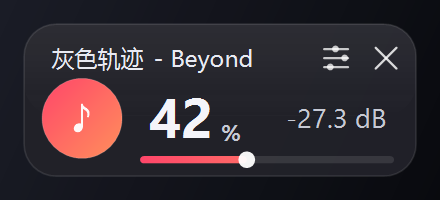
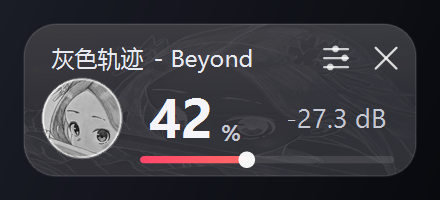
Artwork: circular portrait and a pencil line-art watermark
The note glyph is replaced by a circular crop of a hand-drawn portrait,
and a faint version of the same sketch is used as the card background, so
the card reads as a sketchbook page without hurting the text.

Both images are pre-processed (contrast-boosted round avatar, alpha line
art) and embedded in the exe as resources, so it stays a single file.
If the resources are missing the renderer falls back to the old note
circle. The watermark strength is a parameter (bgLines, 0-40 %, default
22 %) with its own row in the settings panel.

diff --git a/src/Renderer.cs b/src/Renderer.cs
@@ -1,6 +1,7 @@
 using System;
 using System.Drawing;
 using System.Drawing.Drawing2D;
+using System.Drawing.Imaging;
 using System.Drawing.Text;
 
 namespace NvHud
@@ -26,6 +27,31 @@ namespace NvHud
         public const float H_NORMAL = 50f;
         public const float W_HOVER = 196f;   // 与常态同宽：展开只增高，避免右侧出屏
         public const float H_HOVER = 76f;
+
+        // ---- 内置画作（头像 + 线稿水印），从 exe 资源加载 ----
+        private static Bitmap _avatar;
+        private static Bitmap _lines;
+        private static ImageAttributes _linesAttr;
+        private static float _linesAttrAlpha = -1f;
+        private static bool _artTried;
+
+        /// <summary>线稿水印浓度 0~1（可由参数面板调整）。</summary>
+        public static float LineAlpha = 0.22f;
+
+        private static void EnsureArt()
+        {
+            if (_artTried) return;
+            _artTried = true;
+            try
+            {
+                var asm = typeof(Renderer).Assembly;
+                using (var s = asm.GetManifestResourceStream("avatar.png"))
+                    if (s != null) _avatar = new Bitmap(s);
+                using (var s = asm.GetManifestResourceStream("lines.png"))
+                    if (s != null) _lines = new Bitmap(s);
+            }
+            catch { }
+        }
 
         public const string TitleFontName = "Microsoft YaHei UI";
         public const float TitleFontPx = 11.5f;
@@ -99,6 +125,7 @@ namespace NvHud
             g.PixelOffsetMode = PixelOffsetMode.HighQuality;
             g.TextRenderingHint = TextRenderingHint.AntiAliasGridFit;
             g.ScaleTransform(st.Scale, st.Scale);
+            EnsureArt();
 
             SizeF sz = LogicalSize(st.Hover);
             float w = sz.Width, h = sz.Height;
@@ -114,6 +141,29 @@ namespace NvHud
                 using (var fill = new SolidBrush(off ? C(24, 24, 28, 235) : ((st.ShowControls ? C(33, 33, 40, 246) : C(28, 28, 34, 244)))))
                     g.FillPath(fill, cp);
 
+                // 线稿水印（内置画作），浓度可调
+                if (_lines != null && LineAlpha > 0.01f)
+                {
+                    try
+                    {
+                        if (_linesAttr == null || Math.Abs(_linesAttrAlpha - LineAlpha) > 0.001f)
+                        {
+                            _linesAttrAlpha = LineAlpha;
+                            var cm = new System.Drawing.Imaging.ColorMatrix();
+                            cm.Matrix33 = LineAlpha;
+                            var ia = new System.Drawing.Imaging.ImageAttributes();
+                            ia.SetColorMatrix(cm);
+                            _linesAttr = ia;
+                        }
+                        var st0 = g.Save();
+                        g.SetClip(cp, CombineMode.Intersect);
+                        g.DrawImage(_lines, new Rectangle(0, 0, (int)w, (int)h),
+                            0, 0, _lines.Width, _lines.Height, GraphicsUnit.Pixel, _linesAttr);
+                        g.Restore(st0);
+                    }
+                    catch { }
+                }
+
                 // 顶部高光
                 using (var hp = Round(0, 0, w, h * 0.6f, r))
                 using (var hg = Grad(0, 0, 0, h * 0.6f, C(255, 255, 255, 14), C(255, 255, 255, 0)))
@@ -128,29 +178,47 @@ namespace NvHud
             if (hover) { numCy = h * 0.62f; iconD = 40f; numPt = 22f; }
             else { numCy = h * 0.42f; iconD = 28f; numPt = 17f; }
 
-            // 图标圆
+            // 图标位：有内置画作时用圆形头像，否则退回渐变圆 + 音符
             float iconX = 9f;
             float iconY = numCy - iconD / 2f;
-            using (var ip = new GraphicsPath())
+            if (_avatar != null)
             {
-                ip.AddEllipse(iconX, iconY, iconD, iconD);
-                if (off)
+                var st1 = g.Save();
+                using (var ip2 = new GraphicsPath())
                 {
-                    using (var b = new SolidBrush(C(52, 52, 60, 255))) g.FillPath(b, ip);
+                    ip2.AddEllipse(iconX, iconY, iconD, iconD);
+                    g.SetClip(ip2);
+                    g.InterpolationMode = InterpolationMode.HighQualityBicubic;
+                    g.DrawImage(_avatar, new RectangleF(iconX, iconY, iconD, iconD));
+                    if (off)   /* 离线时压暗 */
+                    {
+                        using (var dim = new SolidBrush(C(40, 40, 46, 190))) g.FillPath(dim, ip2);
+                    }
+                    g.Restore(st1);
+                    using (var pen = new Pen(C(255, 255, 255, 70), 0.8f)) g.DrawPath(pen, ip2);
                 }
-                else
-                {
-                    using (var b = Grad(iconX, iconY, iconX + iconD, iconY + iconD, C(255, 70, 105, 255), C(255, 143, 92, 255)))
-                        g.FillPath(b, ip);
-                }
-                using (var pen = new Pen(C(255, 255, 255, 46), 0.7f)) g.DrawPath(pen, ip);
             }
-
-            // 音符
-            using (var fNote = new Font("Segoe UI Symbol", iconD * 0.50f, FontStyle.Regular, GraphicsUnit.Pixel))
-            using (var bNote = new SolidBrush(C(255, 255, 255, 242)))
-            using (var sf = Center())
-                g.DrawString("\u266A", fNote, bNote, new RectangleF(iconX, iconY, iconD, iconD), sf);
+            else
+            {
+                using (var ip = new GraphicsPath())
+                {
+                    ip.AddEllipse(iconX, iconY, iconD, iconD);
+                    if (off)
+                    {
+                        using (var b = new SolidBrush(C(52, 52, 60, 255))) g.FillPath(b, ip);
+                    }
+                    else
+                    {
+                        using (var b = Grad(iconX, iconY, iconX + iconD, iconY + iconD, C(255, 70, 105, 255), C(255, 143, 92, 255)))
+                            g.FillPath(b, ip);
+                    }
+                    using (var pen = new Pen(C(255, 255, 255, 46), 0.7f)) g.DrawPath(pen, ip);
+                }
+                using (var fNote = new Font("Segoe UI Symbol", iconD * 0.50f, FontStyle.Regular, GraphicsUnit.Pixel))
+                using (var bNote = new SolidBrush(C(255, 255, 255, 242)))
+                using (var sf = Center())
+                    g.DrawString("\u266A", fNote, bNote, new RectangleF(iconX, iconY, iconD, iconD), sf);
+            }
 
             // 文字统一用 ClearType（与参数面板/右键菜单一致），边缘更实
             g.TextRenderingHint = TextRenderingHint.ClearTypeGridFit;

diff --git a/src/ParamPanel.cs b/src/ParamPanel.cs
@@ -19,7 +19,7 @@ namespace NvHud
         public const float W_LOGICAL = 216f;
         public const float ROW_H = 30f;
         public const float PAD_Y = 7f;
-        public const int ROWS = 8;
+        public const int ROWS = 9;
 
         public float H_LOGICAL { get { return PAD_Y * 2f + ROW_H * ROWS; } }
 
@@ -27,6 +27,7 @@ namespace NvHud
         public float TargetDb = -20f;
         public int MeasureSec = 8;
         public int CacheTrustSec = 20;
+        public int BgLines = 22;
         public float LimitMargin = 4f;
         public float Tolerance = 1.5f;
         public bool AutoGainOn = true;
@@ -38,6 +39,7 @@ namespace NvHud
         public event Action<int> TargetStep;
         public event Action<int> MeasureStep;
         public event Action<int> TrustStep;
+        public event Action<int> BgLinesStep;
         public event Action<int> MarginStep;
         public event Action<int> ToleranceStep;
         public event Action ToggleAutoGain;
@@ -216,8 +218,9 @@ namespace NvHud
                         case 2: label = "容差"; value = "±" + Tolerance.ToString("0.0") + " dB"; break;
                         case 3: label = "测量时长"; value = MeasureSec + " 秒"; break;
                         case 4: label = "缓存信任"; value = CacheTrustSec + " 秒"; break;
-                        case 5: label = "限幅余量"; value = LimitMargin.ToString("0.0") + " dB"; break;
-                        case 6: label = "自动增益"; value = AutoGainOn ? "开" : "关"; arrows = false; break;
+                        case 5: label = "线稿水印"; value = BgLines + "%"; break;
+                        case 6: label = "限幅余量"; value = LimitMargin.ToString("0.0") + " dB"; break;
+                        case 7: label = "自动增益"; value = AutoGainOn ? "开" : "关"; arrows = false; break;
                         default: label = "恢复默认"; arrows = false; break;
                     }
 
@@ -240,7 +243,7 @@ namespace NvHud
                     using (var b = new SolidBrush(C(232, 234, 242, 255)))   // 与右键菜单同亮度
                         g.DrawString(label, _fLabel, b, new RectangleF(14, y + 2, 90, ROW_H - 4), sfL);
 
-                    Color vc = (i == 5 && !AutoGainOn) ? C(140, 142, 156, 255) : C(246, 246, 250, 255);
+                    Color vc = (i == 6 && !AutoGainOn) ? C(140, 142, 156, 255) : C(246, 246, 250, 255);
                     using (var b = new SolidBrush(vc))
                         g.DrawString(value, _fValue, b, new RectangleF(w - 132, y + 2, 76, ROW_H - 4), sfR);
 
@@ -249,7 +252,7 @@ namespace NvHud
                         DrawChevron(g, w - 40, y + ROW_H / 2f, false, HoverRow == i && HoverZone == 1);
                         DrawChevron(g, w - 18, y + ROW_H / 2f, true, HoverRow == i && HoverZone == 2);
                     }
-                    else if (i == 6)
+                    else if (i == 7)
                     {
                         // 开关小胶囊
                         float pw2 = 34f, ph2 = 17f;
@@ -297,7 +300,7 @@ namespace NvHud
         {
             float s = DpiScale;
             float lx = p.X / s;
-            if (row == 6) return 3;
+            if (row == 7) return 3;
             if (row == ROWS - 1) return 3;
             if (lx >= W_LOGICAL - 56f && lx < W_LOGICAL - 33f) return 1;
             if (lx >= W_LOGICAL - 33f && lx <= W_LOGICAL - 8f) return 2;
@@ -366,13 +369,17 @@ namespace NvHud
                     else if (zone == 2 && TrustStep != null) TrustStep(5);
                     break;
                 case 5:
+                    if (zone == 1 && BgLinesStep != null) BgLinesStep(-5);
+                    else if (zone == 2 && BgLinesStep != null) BgLinesStep(5);
+                    break;
+                case 6:
                     if (zone == 1 && MarginStep != null) MarginStep(-1);
                     else if (zone == 2 && MarginStep != null) MarginStep(1);
                     break;
-                case 6:
+                case 7:
                     if (ToggleAutoGain != null) ToggleAutoGain();
                     break;
-                case 7:
+                case 8:
                     if (ResetDefaults != null) ResetDefaults();
                     break;
             }

diff --git a/src/Program.cs b/src/Program.cs
@@ -103,6 +103,7 @@ namespace NvHud
             _overlay = new Overlay();
             _overlay.UserScale = _cfg.Scale;
             _overlay.Fade = _cfg.Opacity;
+            Renderer.LineAlpha = _cfg.BgLines / 100f;
 
             _overlay.VolumeChanged += OnVolumeChanged;
             _overlay.MuteToggleRequested += OnMuteToggle;
@@ -678,6 +679,7 @@ namespace NvHud
                 _panel.TargetStep += delegate(int d) { SetTargetDb(_cfg.TargetDb + d); };
                 _panel.MeasureStep += delegate(int d) { SetMeasure(_cfg.MeasureSeconds + d); };
             _panel.TrustStep += delegate(int d) { SetCacheTrust(_cfg.CacheTrustSec + d); };
+            _panel.BgLinesStep += delegate(int d) { SetBgLines(_cfg.BgLines + d); };
                 _panel.MarginStep += delegate(int d) { SetLimitMargin(_cfg.LimitMarginDb + d); };
                 _panel.ToleranceStep += delegate(int d) { SetTolerance(_cfg.ToleranceDb + d * 0.5f); };
                 _panel.ToggleAutoGain += delegate { SetAutoGain(!_cfg.AutoGain); };
@@ -687,6 +689,7 @@ namespace NvHud
             _panel.TargetDb = _cfg.TargetDb;
             _panel.MeasureSec = _cfg.MeasureSeconds;
             _panel.CacheTrustSec = _cfg.CacheTrustSec;
+            _panel.BgLines = _cfg.BgLines;
             _panel.LimitMargin = _cfg.LimitMarginDb;
             _panel.Tolerance = _cfg.ToleranceDb;
             _panel.AutoGainOn = _cfg.AutoGain;
@@ -767,6 +770,18 @@ namespace NvHud
             Log.W("参数: 缓存信任 = " + v + " 秒" + (v == 0 ? "（关闭）" : ""));
         }
 
+        private void SetBgLines(int v)
+        {
+            if (v < 0) v = 0;
+            if (v > 40) v = 40;
+            _cfg.BgLines = v;
+            _cfg.Save();
+            Renderer.LineAlpha = v / 100f;
+            if (_panel != null) { _panel.BgLines = v; _panel.Refresh_(); }
+            UpdateUi(true);
+            Log.W("参数: 线稿水印 = " + v + "%");
+        }
+
         private void SetTolerance(float v)
         {
             if (v < 0.5f) v = 0.5f;
@@ -803,6 +818,7 @@ namespace NvHud
             _cfg.TargetDb = -26f;
             _cfg.MeasureSeconds = 12;
             _cfg.CacheTrustSec = 20;
+            _cfg.BgLines = 22;
             _cfg.LimitMarginDb = 4f;
             _cfg.ToleranceDb = 1.5f;
             _cfg.Save();

diff --git a/src/Config.cs b/src/Config.cs
@@ -22,6 +22,7 @@ namespace NvHud
         public float TargetDb = -26f;       // 目标响度：P90 RMS dBFS（可用"校准"重设）
         public int MeasureSeconds = 12;      // 每首歌测量时长（秒）
         public int CacheTrustSec = 20;       // 缓存信任期（秒）：开头这段时间内不自动改音量
+        public int BgLines = 22;             // 卡片背景线稿水印浓度（0~40）
         public float ToleranceDb = 1.5f;    // 目标区间半宽（±dB）
         public float LimitMarginDb = 4f;    // 限幅余量：超过"基准响度 + 该值"才限幅
 
@@ -100,6 +101,7 @@ namespace NvHud
                         case "targetDb": c.TargetDb = Flt(v, c.TargetDb); break;
                         case "measureSeconds": c.MeasureSeconds = Int(v, c.MeasureSeconds); break;
                         case "cacheTrustSec": c.CacheTrustSec = Int(v, c.CacheTrustSec); break;
+                        case "bgLines": c.BgLines = Int(v, c.BgLines); break;
                         case "limitMarginDb": c.LimitMarginDb = Flt(v, c.LimitMarginDb); break;
                         case "toleranceDb": c.ToleranceDb = Flt(v, c.ToleranceDb); break;
                     }
@@ -133,6 +135,7 @@ namespace NvHud
                 lines.Add("targetDb=" + TargetDb.ToString("0.0", CultureInfo.InvariantCulture));
                 lines.Add("measureSeconds=" + MeasureSeconds.ToString(CultureInfo.InvariantCulture));
                 lines.Add("cacheTrustSec=" + CacheTrustSec.ToString(CultureInfo.InvariantCulture));
+                lines.Add("bgLines=" + BgLines.ToString(CultureInfo.InvariantCulture));
                 lines.Add("limitMarginDb=" + LimitMarginDb.ToString("0.0", CultureInfo.InvariantCulture));
                 lines.Add("toleranceDb=" + ToleranceDb.ToString("0.0", CultureInfo.InvariantCulture));
                 File.WriteAllLines(ConfigPath, lines.ToArray(), System.Text.Encoding.UTF8);

diff --git a/docs/使用说明.md b/docs/使用说明.md
@@ -21,7 +21,7 @@
 |---|---|
 | 尺寸 | **196×76（150% 缩放 → 294×114）**，始终是这个大小，**不再缩回小条** |
 | 材质 | 分层窗口逐像素透明 + 圆角 + 88% 不透明度，能透出背后的画面 |
-| 常态内容 | 曲目名 · 红橙渐变音符圆 · 大号百分比 · 进度条 · **右侧实时响度读数** |
+| 常态内容 | 曲目名 · **圆形头像（手绘画作）** · 大号百分比 · 进度条 · **右侧实时响度读数**；卡片背景带**线稿水印** |
 | 悬停追加 | **只多出两个按钮**：菜单图标 + ×（退出）。曲目名一直显示，**过长时一直缓慢滚动**（不依赖悬停，也不显示省略号，直接滚） |
 | 行为 | **置顶**，但每 **15 秒**才重申一次（这样微信/QQ 截图时不会频繁跳出挡住画面）；**永不抢焦点**（点它不会把游戏切后台） |
 
@@ -133,6 +133,7 @@
 | 容差 | ±1.5 dB | ±0.5~±4 | ±0.5 | 更宽松、动作更少 | 更贴目标、动作更多 |
 | 测量时长 | 12 秒 | 4~12 秒 | ±2 秒 | 首次定档更准、更慢 | 定档更快、易被前奏误导 |
 | **缓存信任** | 20 秒 | 0~60 秒 | ±5 秒 | 开头的"冷静期"更长，不易被前奏带跑 | 更快按实测校准（0 = 关闭） |
+| **线稿水印** | 22% | 0~40% | ±5% | 背景线稿更明显，更有手绘感 | 更干净（0 = 纯深色底） |
 | 限幅余量 | 4 dB | 2~8 dB | ±1 dB | 只有特别炸才压 | 更容易被压（更安静） |
 | 自动增益 | 开 | 开/关 | 整行点 | — | — |
 | 恢复默认参数 | — | — | 整行按钮 | — | — |
